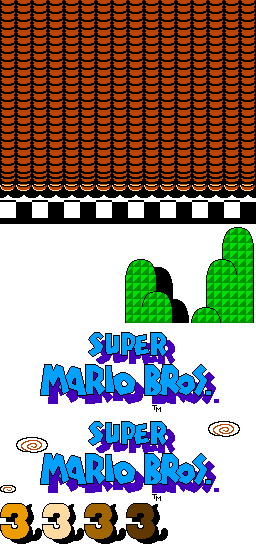
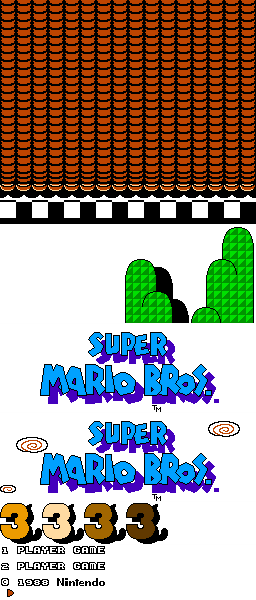
Add Intro Scene (not organized) p4

diff --git a/Game/Intro.cpp b/Game/Intro.cpp
@@ -77,6 +77,8 @@ void Intro::Load()
 	numberOfSpawn = 0;
 	currentTime = 0;
 
+	firstOption = true;
+
 	Global::GetInstance()->background_color = D3DCOLOR_XRGB(0, 0, 0);
 	AUTO = true;
 
@@ -141,6 +143,20 @@ void Intro::Load()
 			number->SetPosition(x, y - STANDARD_SIZE * 10);
 			number->SetDrawOrder(MENU_DRAW_ORDER_TITLE);
 		}
+		else if (i == 6 && j == 9)
+		{
+			arrow = static_cast<BackGround*>(object);
+			arrow->SetType(eType::MENU_TITLE);
+			arrow->SetAnimationSet(AnimationManager::GetInstance()->Get(MENU));
+			arrow->SetDrawOrder(MENU_DRAW_ORDER_TITLE);
+		}
+		else if (i == 7 && j == 9)
+		{
+			text = static_cast<BackGround*>(object);
+			text->SetType(eType::MENU_TITLE);
+			text->SetAnimationSet(AnimationManager::GetInstance()->Get(MENU));
+			text->SetDrawOrder(MENU_DRAW_ORDER_TITLE);
+		}
 		else
 		{
 			if (dynamic_cast<GroupObject*>(object))
@@ -159,7 +175,8 @@ void Intro::Load()
 	tree1->SetDisableDraw();
 	tree2->SetDisableDraw();
 	number->SetDisableDraw();
-
+	arrow->SetDisableDraw();
+	text->SetDisableDraw();
 }
 
 void Intro::Update(DWORD dt)
@@ -503,12 +520,12 @@ void Intro::Update(DWORD dt)
 				}
 				else if (timePass > MENU_MARIO_SECOND_15)
 				{
-					mario->SetState(MARIO_STATE_RUNNING_RIGHT_FAST);
+					mario->SetState(MARIO_STATE_RUNNING_RIGHT_CUS);
+					mario->SetDrawOrder(MENU_DRAW_ORDER_RIBBON_BG);
 				}
 				else if (timePass > MENU_MARIO_SECOND_14)
 				{
 					mario->SetState(MARIO_STATE_IDLE);
-					mario->SetDrawOrder(MENU_DRAW_ORDER_RIBBON_BG);
 				}
 				else if (timePass > MENU_MARIO_SECOND_13)
 				{
@@ -734,6 +751,8 @@ void Intro::Update(DWORD dt)
 			tree2->SetAllowDraw();
 			tree2->SetDrawColor(color);
 	
+			arrow->SetAllowDraw();
+			text->SetAllowDraw();
 
 			//Delete all entity
 			for (auto object : gameObjects)
@@ -781,6 +800,11 @@ void Intro::Update(DWORD dt)
 			}
 		}
 
+		if (firstOption)
+			arrow->SetPosition(MENU_ARROW_POS_1_X, MENU_ARROW_POS_1_Y);
+		else
+			arrow->SetPosition(MENU_ARROW_POS_2_X, MENU_ARROW_POS_2_Y);
+
 		if (now - waitingTime > MENU_WAITING_TIME)
 		{
 			Unload();
@@ -823,6 +847,8 @@ void Intro::Unload()
 	tree1 = NULL;
 	tree2 = NULL;
 	number = NULL;
+	arrow = NULL;
+	text = NULL;
 
 	groomba = NULL;
 	turtleShell = NULL;
@@ -838,6 +864,9 @@ void Intro::SetState(int state)
 	{
 	case MENU_STATE_SKIP:
 		showMenu = true;
+		break;
+	case MENU_STATE_OPTION:
+		firstOption = !firstOption;
 		break;
 	default:
 		break;

diff --git a/Game/PlayerIntro.cpp b/Game/PlayerIntro.cpp
@@ -687,6 +687,20 @@ void PlayerIntro::SetState(int state)
 		direction = 1;
 
 		break;
+	case MARIO_STATE_RUNNING_RIGHT_CUS:
+		vx += MARIO_RUNNING_SPEED_CUSTOM * dt;
+
+		if (abs(vx) > MARIO_MAX_RUNNING_SPEED)
+		{
+			vx = MARIO_MAX_RUNNING_SPEED;
+			if (level != MARIO_LEVEL_FROG)
+				isMax = true;
+			else
+				isMax = false;
+		}
+
+		direction = 1;
+		break;
 	case MARIO_STATE_WALKING_LEFT:
 		if (!touchLeft)
 		{
@@ -735,6 +749,19 @@ void PlayerIntro::SetState(int state)
 		break;
 	case MARIO_STATE_RUNNING_LEFT_FAST:
 		vx += -MARIO_RUNNING_SPEED_FAST * dt;
+
+		if (abs(vx) > MARIO_MAX_RUNNING_SPEED)
+		{
+			vx = -MARIO_MAX_RUNNING_SPEED;
+			if (level != MARIO_LEVEL_FROG)
+				isMax = true;
+			else
+				isMax = false;
+		}
+		direction = -1;
+		break;
+	case MARIO_STATE_RUNNING_LEFT_CUS:
+		vx += -MARIO_RUNNING_SPEED_CUSTOM * dt;
 
 		if (abs(vx) > MARIO_MAX_RUNNING_SPEED)
 		{

diff --git a/Game/PlayerIntro.h b/Game/PlayerIntro.h
@@ -9,6 +9,7 @@
 #define MARIO_WALKING_SPEED				0.0001f 
 #define MARIO_RUNNING_SPEED				0.00008f 
 #define MARIO_RUNNING_SPEED_FAST		0.0002f 
+#define MARIO_RUNNING_SPEED_CUSTOM		0.0002f 
 #define MARIO_JUMPING_SPEED				0.0025f
 #define MARIO_MAX_WALKING_SPEED			0.1f
 #define MARIO_HALF_MAX_RUNNING_SPEED	0.15f
@@ -35,11 +36,13 @@
 #define MARIO_STATE_RUNNING_RIGHT		102
 #define MARIO_STATE_WALK_RIGHT_NO_MOVE	103
 #define MARIO_STATE_RUNNING_RIGHT_FAST	104
+#define MARIO_STATE_RUNNING_RIGHT_CUS	105
 #define MARIO_STATE_WALKING_LEFT		200
 #define MARIO_STATE_WALKING_LEFT_FROG	201
 #define MARIO_STATE_RUNNING_LEFT		202
 #define MARIO_STATE_WALK_LEFT_NO_MOVE	203
 #define MARIO_STATE_RUNNING_LEFT_FAST	204
+#define MARIO_STATE_RUNNING_LEFT_CUS	205
 #define MARIO_STATE_BREAK_LEFT			300
 #define MARIO_STATE_BREAK_RIGHT			400
 #define MARIO_STATE_JUMP				500

diff --git a/Game/Intro.h b/Game/Intro.h
@@ -59,16 +59,25 @@
 #define MENU_WAITING_TIME		30000
 #define MENU_SPAWN_TIME			2000
 
+#define MENU_ARROW_POS_1_X		96.0f
+#define MENU_ARROW_POS_1_Y		144.0f	
+
+#define MENU_ARROW_POS_2_X		96.0f
+#define MENU_ARROW_POS_2_Y		160.0f	
+
 class Intro : public TestScene
 {
 	PlayerIntro* mario;
 	PlayerIntro* luigi;
+
 	BackGround* ribbon;
 	BackGround* ribbon_top;
 	BackGround* title;
 	BackGround* tree1;
 	BackGround* tree2;
 	BackGround* number;
+	BackGround* arrow;
+	BackGround* text;
 
 	Groomba* groomba;
 	KoopasIntro* turtleShell;
@@ -124,6 +133,8 @@ class Intro : public TestScene
 
 	int numberOfSpawn = 0;
 	DWORD currentTime = 0;
+
+	bool firstOption = true;
 
 public:
 	Intro(int id, LPCWSTR filePath);

diff --git a/Game/Keyboard.cpp b/Game/Keyboard.cpp
@@ -197,9 +197,12 @@ void Keyboard::OnKeyDown(int KeyCode)
 		switch (KeyCode)
 		{
 		case DIK_W:
-		{
 			SceneManager::GetInstance()->GetCurrentScene()->SetState(MENU_STATE_SKIP);
-		}
+			break;
+		case DIK_UPARROW:
+		case DIK_DOWNARROW:
+		case DIK_Q:
+			SceneManager::GetInstance()->GetCurrentScene()->SetState(MENU_STATE_OPTION);
 			break;
 		}
 	}

diff --git a/Game/Global.h b/Game/Global.h
@@ -340,6 +340,8 @@ extern bool AUTO;
 
 //Menu State
 #define MENU_STATE_SKIP					100
+#define MENU_STATE_OPTION				200
+#define MENU_STATE_CHOOSE				300
 
 enum eType
 {
